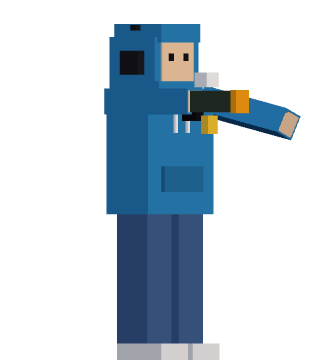
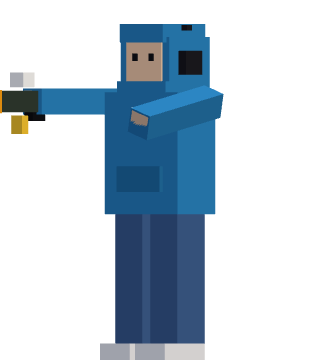
Footer: figures face different directions, get a random vertical nudge per load, and are smaller

Changed region(s): [[0.0, 0.0611, 0.9375, 1.0], [0.5, 0.9472, 0.5312, 1.0], [0.4062, 0.9472, 0.4375, 1.0]]

diff --git a/src/client/ui/components/Footer.tsx b/src/client/ui/components/Footer.tsx
@@ -2,8 +2,10 @@
  * The site footer: a strip at the end of each non-gameplay screen (it scrolls with the content, it is not pinned)
  * with the seven characters in a row, the tagline and a link to the source. The portraits are 2D renders of the
  * game's own models made by `tools/characters.html`, each in a different shirt colour holding a different gun.
- * Each figure is lifted by half its height so it stands out of the strip, over the yellow top line.
+ * Each figure is lifted by half its height so it stands out of the strip, over the yellow top line, and nudged a few
+ * pixels up or down at random on every page load so the lineup does not look stamped out.
  */
+import { useState, type CSSProperties } from 'react';
 import { CHARACTERS } from '@shared/core/characters';
 
 /** Where the source lives. */
@@ -11,25 +13,32 @@ const REPO_URL = 'https://github.com/barakgotesman/itwars';
 
 /** The footer strip. */
 export function Footer() {
+  /** Per-figure vertical nudge in px, drawn once per mount. */
+  const [nudge] = useState(() => CHARACTERS.map(() => Math.round(Math.random() * 16 - 8)));
   return (
     // The top margin leaves room for the half of each figure that rises above the strip.
-    <footer className="relative mt-16 flex h-20 shrink-0 items-start justify-between gap-6 border-t-4 border-accent bg-panel px-6 [@media(max-height:720px)]:mt-12 [@media(max-height:720px)]:h-14">
+    <footer className="relative mt-12 flex h-16 shrink-0 items-start justify-between gap-6 border-t-4 border-accent bg-panel px-6 [@media(max-height:720px)]:mt-10 [@media(max-height:720px)]:h-12">
       <p className="hidden shrink-0 self-center text-sm font-bold text-dim lg:block lg:w-64">
         <span className="text-accent">IT Wars</span>
         <br />
         Have you tried turning them off?
       </p>
       <ul className="mx-auto flex items-start gap-3 sm:gap-6">
-        {CHARACTERS.map((c) => (
-          <li key={c.slug} title={c.name} className="-translate-y-1/2 transition-transform duration-100 hover:-translate-y-[calc(50%+4px)]">
+        {CHARACTERS.map((c, i) => (
+          <li
+            key={c.slug}
+            title={c.name}
+            style={{ '--nudge': `${nudge[i]}px` } as CSSProperties}
+            className="translate-y-[calc(-50%+var(--nudge))] transition-transform duration-100 hover:translate-y-[calc(-50%+var(--nudge)-4px)]"
+          >
             <img
               src={`/characters/${c.slug}.png`}
               alt={c.name}
-              width={107}
-              height={120}
+              width={75}
+              height={84}
               loading="lazy"
               draggable={false}
-              className="block h-[120px] w-[107px] select-none [@media(max-height:720px)]:h-[84px] [@media(max-height:720px)]:w-[75px]"
+              className="block h-[84px] w-[75px] select-none [@media(max-height:720px)]:h-[60px] [@media(max-height:720px)]:w-[54px]"
             />
           </li>
         ))}

diff --git a/tools/characters-page.ts b/tools/characters-page.ts
@@ -10,8 +10,8 @@ import { PlayerModel } from '@client/render/players';
 /** Portrait size in pixels (2x the footer's display size so it stays sharp on dense screens); wide enough for a gun. */
 const W = 320;
 const H = 360;
-/** Turn from straight-on (pi faces the camera), so the face and the gun held out in front both read. */
-const YAW = Math.PI + 0.85;
+/** Each character's turn from straight-on (0 faces the camera), so the lineup does not all point the same way: both profiles and 3/4 views. */
+const YAW_OF = [0.9, -0.75, 0.25, 1.25, -0.35, 0.6, -1.15] as const;
 /** The weapon each character holds (indices into `WEAPONS`: pistol, SMG, shotgun, sniper, RPG), so the lineup shows all five. */
 const WEAPON_OF = [0, 1, 2, 3, 4, 2, 0] as const;
 
@@ -41,7 +41,7 @@ for (const [i, def] of CHARACTERS.entries()) {
   model.tagVisible(false);
   // `update` raises the gun and poses the arms for it (the RPG goes on the shoulder).
   model.update(0, 0, true, 0, true, WEAPON_OF[i % WEAPON_OF.length]!, false);
-  model.root.rotation.y = YAW;
+  model.root.rotation.y = Math.PI + YAW_OF[i % YAW_OF.length]!;
   scene.add(model.root);
   renderer.render(scene, camera);
   scene.remove(model.root);
